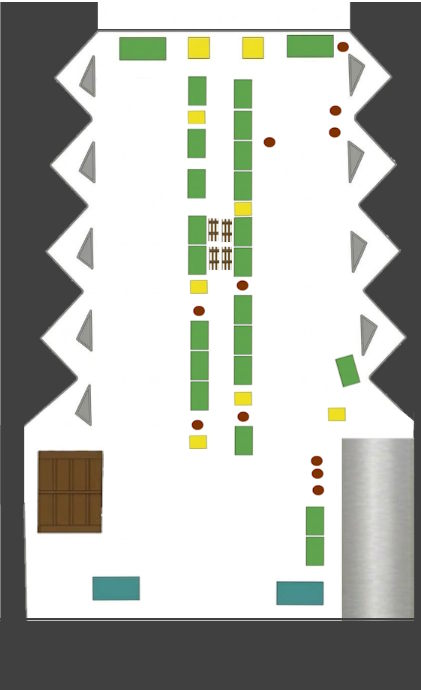
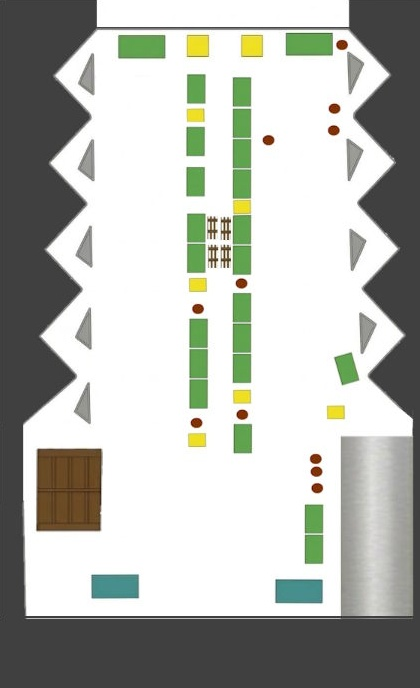
Add files via upload

diff --git a/styles.css b/styles.css
@@ -9,12 +9,13 @@ body {
 }
 header {
   background:var(--moss); color:var(--cream); padding:10px 18px; display:flex;
-  align-items:center; justify-content:space-between; gap:12px; flex-wrap:wrap;
+  align-items:center; justify-content:space-between; gap:16px; flex-wrap:wrap;
   z-index:1000; box-shadow:0 2px 8px rgba(0,0,0,.25); flex-shrink:0;
 }
-.header-title { font-family:'Playfair Display',serif; font-size:1.25rem; letter-spacing:.03em; white-space:nowrap; }
+.header-title { font-family:'Playfair Display',serif; font-size:1.2rem; letter-spacing:.03em; white-space:nowrap; flex-shrink:0; order:0; }
 .header-title span { font-style:italic; color:var(--mist); }
-.controls { display:flex; align-items:center; gap:8px; flex-wrap:wrap; }
+.layer-panel { display:flex; align-items:center; gap:8px; flex-wrap:wrap; justify-content:center; flex:1; order:1; }
+.controls { display:flex; align-items:center; gap:8px; flex-wrap:wrap; flex-shrink:0; order:2; }
 
 /* Pills: used for R/F/T/K category toggles AND the "Our Plants" pill */
 .pill {
@@ -29,6 +30,11 @@ header {
 .pill.checked .dot { border-color:white; }
 .pill input { display:none; }
 
+#our-plants-pill {
+  background:var(--gold); border-color:var(--gold); color:white; font-size:.92rem;
+  padding:7px 18px; font-weight:700; order:3; margin:0 4px;
+}
+#our-plants-pill:hover { background:#c79a48; }
 #lang-btn {
   background:rgba(255,255,255,.15); border:1.5px solid var(--mist); border-radius:8px;
   color:white; font-size:1.2rem; padding:6px 10px; cursor:pointer; line-height:1;

diff --git a/app.js b/app.js
@@ -44,11 +44,13 @@ function containerLatin(code) {
 // ─── HEADER: CATEGORY PILLS + "OUR PLANTS" PILL ────────────────────────────
 const layerPanel = document.getElementById('layer-panel');
 
+const PILL_ORDER = { R:1, F:2, T:4, K:5 };
 Object.keys(CATEGORIES).forEach(catId => {
   const cat = CATEGORIES[catId];
   const pill = document.createElement('label');
   pill.className = 'pill checked';
   pill.dataset.catId = catId;
+  pill.style.order = PILL_ORDER[catId] || 0;
   pill.innerHTML = `<input type="checkbox" checked><span class="dot" style="background:${cat.hex}"></span><span class="pill-label">${cat.label.sv}</span>`;
   pill.querySelector('input').addEventListener('change', e => {
     catVisible[catId] = e.target.checked;

diff --git a/index.html b/index.html
@@ -10,7 +10,7 @@
 <body>
 
 <header>
-  <div class="header-title">Clarion <span>Trädgård</span></div>
+  <div class="header-title">Clarion Hotel&copy; Stockholm - <span>Söders Trädgård</span></div>
   <div class="controls">
     <div class="search-wrap">
       <input type="text" id="search" placeholder="" autocomplete="off">